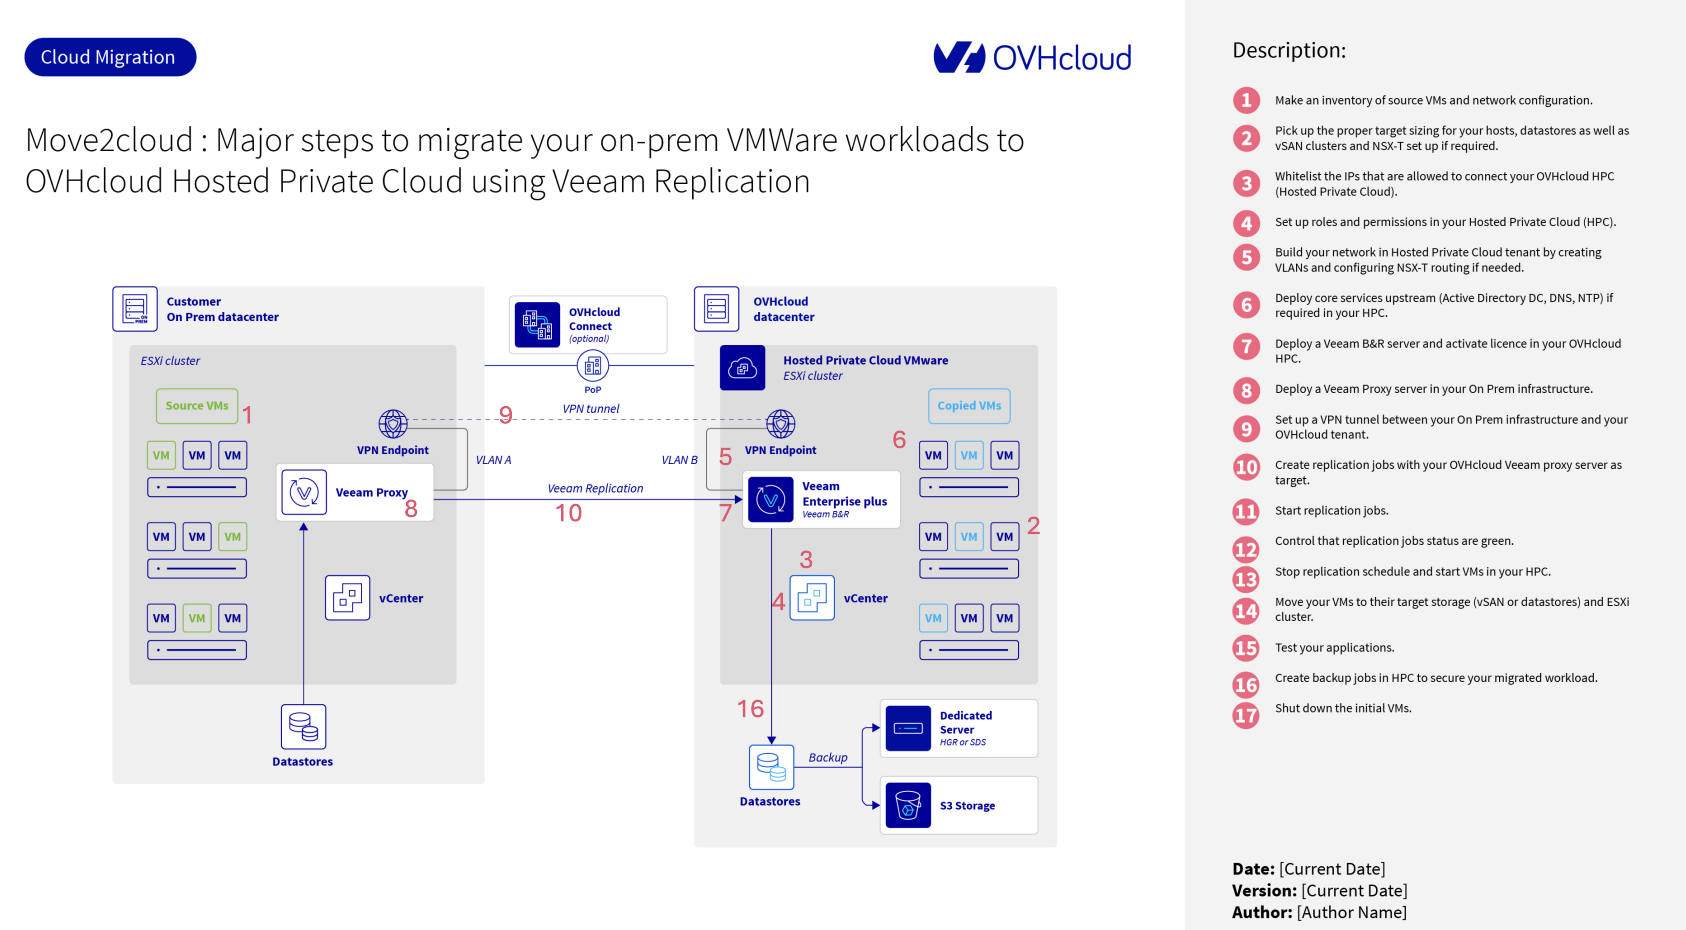
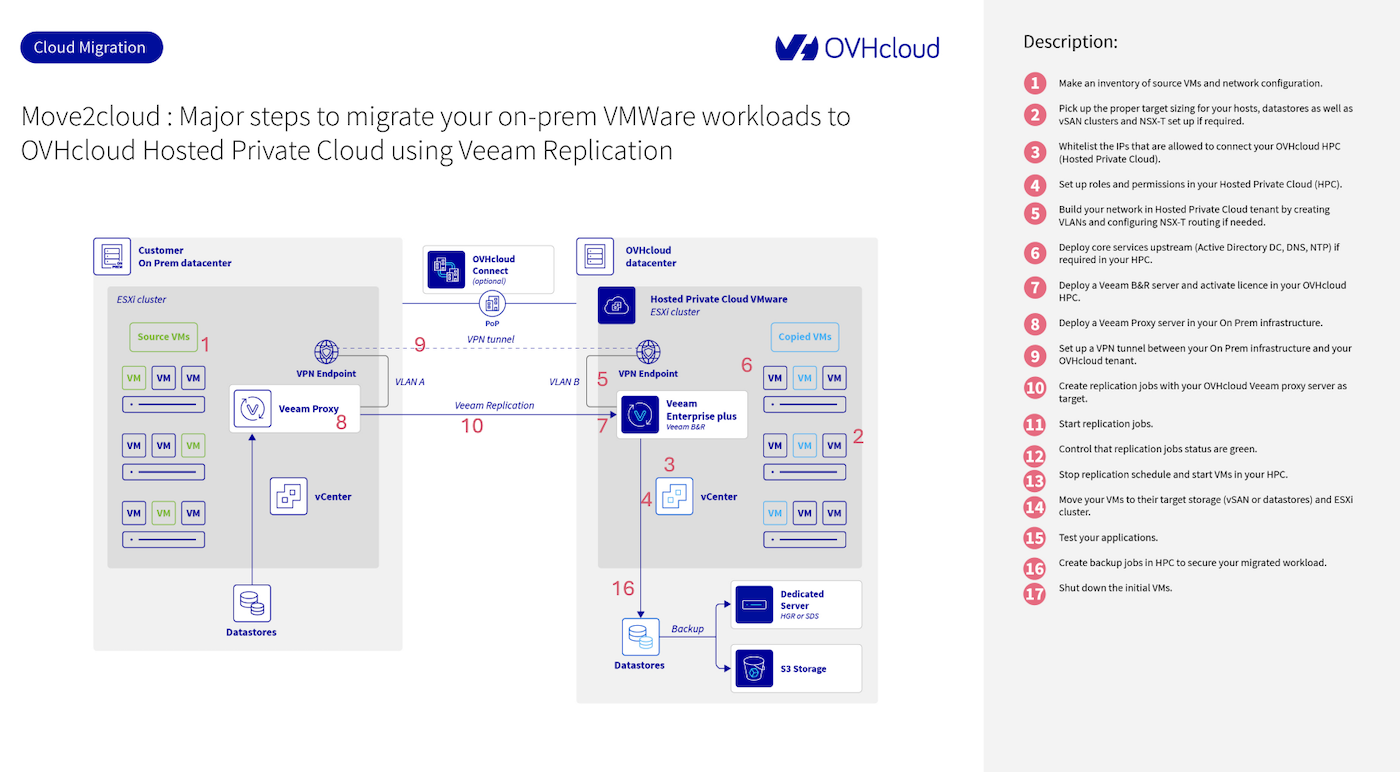
Proofreading

diff --git a/pages/hosted_private_cloud/hosted_private_cloud_powered_by_vmware/vmware_migration_veeam/guide.en-gb.md b/pages/hosted_private_cloud/hosted_private_cloud_powered_by_vmware/vmware_migration_veeam/guide.en-gb.md
@@ -1,7 +1,7 @@
 ---
-title: "Move2Cloud: Migrating VMware Workloads to OVHcloud HPC with Veeam Replication"
+title: "Move2Cloud - Migrating VMware Workloads to OVHcloud Hosted Private Cloud with Veeam Replication"
 excerpt: "Learn how to migrate your on-prem VMware workloads to an OVHcloud Hosted Private Cloud environment using Veeam Replication."
-updated: 2025-02-13
+updated: 2025-02-18
 ---
 
 ## Objective
@@ -10,7 +10,7 @@ This guide explains how to migrate your on-premises VMware workloads to an **OVH
 
 ## Requirements
 
-Before getting started, you’ll need:
+Before getting started, you will need:
 
 - A complete list of VMs with FQDNs, IP addresses, and dependencies.
 - Correctly sized target resources (e.g., hosts, datastores, vSAN clusters).
@@ -29,203 +29,208 @@ At the end of Step 1, you should have a clear understanding of which workloads y
 
 Start by listing all the VMs you plan to migrate.
 
- For each VM, include the following information:  
-- **FQDN (Fully Qualified Domain Name)** and **IP address**.  
-- **Operating system version** (ensure it’s up-to-date and supported).  
-- **Dependencies** (e.g., applications relying on specific servers).  
+For each VM, include the following information:
+
+- **FQDN (Fully Qualified Domain Name)** and **IP address**.
+- **Operating System version** (ensure it’s up-to-date and supported).
+- **Dependencies** (e.g. applications relying on specific servers).
 
 #### Step 1.2: Group VMs into migration batches  
 
 Organize your VMs into logical groups based on their application dependencies. 
 
 For instance:  
-- A **web server**, an **application server**, and a **database server** that work together should be grouped in the same batch.  
 
-Migrating these batches ensures that applications remain functional during the transition.  
+- A **web server**, an **application server**, and a **database server** that work together should be grouped in the same batch.
 
-#### Step 1.3: Document network and subnet details  
+Migrating these batches ensures that applications remain functional during the transition.
 
-Record the current network configuration of your on-premises environment, including:  
+#### Step 1.3: Document network and subnet details
 
-- **Subnets** and **VLAN IDs**.  
-- The number of VLANs needed for the target Hosted Private Cloud.  
+Record the current network configuration of your on-premises environment, including:
 
-With OVHcloud vRack, you can create up to 4,000 VLANs, which allows you to replicate your current IP address plan without disruptions.  
+- **Subnets** and **VLAN IDs**.
+- The number of VLANs needed for the target Hosted Private Cloud.
+
+With [OVHcloud vRack](/links/network/vrack), you can create up to 4,000 VLANs, which allows you to replicate your current IP address plan without disruptions.
 
 ### Step 2: Plan target resources  
 
 At the end of this step, you will have a clear understanding of the resources required in your **Hosted Private Cloud (HPC)** environment to match your workloads.
 
-#### Step 2.1: Calculate compute requirements  
+#### Step 2.1: Calculate compute requirements
 
-Evaluate your needs for CPU and memory by calculating the total number of cores and amount of RAM required for your VMs. 
+Evaluate your needs for CPU and memory by calculating the total number of cores and amount of RAM required for your VMs.
 
-Use your current consolidation ratio (e.g., pCPU/vCPU) as a reference to determine the number and type of ESXi hosts needed.
+Use your current consolidation ratio (e.g. pCPU/vCPU) as a reference to determine the number and type of ESXi hosts needed.
 
 #### Step 2.2: Define storage needs  
 
 Decide which workloads require **NFS datastores** or **vSAN storage** based on their IOPS requirements. For applications with high performance demands, vSAN is typically the better option.
 
-#### Step 2.3: Plan the network  
+#### Step 2.3: Plan the network
 
-If using NSX-T, define your network segmentation strategy. Determine how you’ll apply VLAN-based or overlay segments and evaluate north/south traffic. 
+If using NSX-T, define your network segmentation strategy. Determine how you will apply VLAN-based or overlay segments and evaluate north/south traffic.
 
-Decide whether to retain your current firewall solution or deploy virtual firewalls (e.g., FortiVM, Stormshield, or Palo Alto VM-Series). 
+Decide whether to retain your current firewall solution or deploy virtual firewalls (e.g. FortiVM, Stormshield, or Palo Alto VM-Series).
 
-For internet-exposed services, allocate additional public IPs or use the [Bring Your Own IP (BYOIP)](/links/network/byoip) feature to retain your existing IP addresses.  
+For internet-exposed services, allocate additional public IPs or use the [Bring Your Own IP (BYOIP)](/links/network/byoip) feature to retain your existing IP addresses.
 
-### Step 3: Authorize IP access to vCenter  
+### Step 3: Authorize IP access to vCenter
 
 To enable remote access to the vCenter in your HPC, you must whitelist the IP addresses that need access.
 
-1. Log in to the [OVHcloud Control Panel](/links/manager).  
-2. Navigate to the `Hosted Private Cloud`{.action} section and open the Secure SSL Gateway.  
-3. Add the IP addresses that should have access to vCenter.  
+1. Log in to the [OVHcloud Control Panel](/links/manager).
+2. Navigate to the `Hosted Private Cloud`{.action} section and open the Secure SSL Gateway.
+3. Add the IP addresses that should have access to vCenter.
 
-You can find detailed instructions in the [IP whitelisting guide](https://help.ovhcloud.com/csm/en-gb-vmware-authorise-ip-addresses-vcenter?id=kb_article_view&sysparm_article=KB0045321).
+You can find detailed instructions in our [IP whitelisting guide](/pages/hosted_private_cloud/hosted_private_cloud_powered_by_vmware/autoriser_des_ip_a_se_connecter_au_vcenter).
 
-### Step 4: Configure roles and permissions  
+### Step 4: Configure roles and permissions
 
-#### Step 4.1: Use OVHcloud IAM  
+#### Step 4.1: Use OVHcloud IAM
 
-Set up roles and permissions in your `Hosted Private Cloud`{.action} using `OVHcloud IAM`{.action}. 
+Set up roles and permissions in your `Hosted Private Cloud`{.action} using `OVHcloud IAM`.
 
-For instructions, refer to the [IAM setup guide](https://help.ovhcloud.com/csm/en-gb-vmware-iam-presentation?id=kb_article_view&sysparm_article=KB0063154).
+For instructions, refer to the [IAM setup guide](/pages/hosted_private_cloud/hosted_private_cloud_powered_by_vmware/vmware_iam_getting_started).
 
-#### Step 4.2: Integrate with existing IAM solutions  
+#### Step 4.2: Integrate with existing IAM solutions
 
-If you already use an identity management system such as Active Directory or Okta, you can deploy these services within your HPC.  
+If you already use an identity management system such as Active Directory or Okta, you can deploy these services within your HPC.
 
-#### Step 4.3: Enable single sign-on  
+#### Step 4.3: Enable single sign-on
 
-To simplify access, you can configure Single Sign-On (SSO) by linking `OVHcloud IAM`{.action} with your ADFS (Active Directory Federation Services). 
+To simplify access, you can configure Single Sign-On (SSO) by linking `OVHcloud IAM` with your ADFS (Active Directory Federation Services).
 
-Follow the steps in [this guide](https://help.ovhcloud.com/csm/en-gb-connect-saml-sso-adfs?id=kb_article_view&sysparm_article=KB0043008).
+Follow the steps in [this guide](/pages/account_and_service_management/account_information/ovhcloud-account-connect-saml-adfs).
 
-### Step 5: Build your target network  
+### Step 5: Build your target network
 
-#### Step 5.1: Define the flow matrix  
+#### Step 5.1: Define the flow matrix
 
-Plan your network traffic by creating a flow matrix. Identify which VLANs are routed and which VMs should exchange traffic, specifying allowed ports and protocols.  
+Plan your network traffic by creating a flow matrix. Identify which VLANs are routed and which VMs should exchange traffic, specifying allowed ports and protocols.
 
-#### Step 5.2: Configure NSX-T  
+#### Step 5.2: Configure NSX-T
 
 Use NSX-T to configure Tier-1 and Tier-0 gateways, distribute traffic, and segregate workloads. VMware tenants come with preconfigured **distributed vSwitches (dVS)** and VLANs, which you can adjust to match your environment.
 
-Refer to the [NSX first steps guide](https://help.ovhcloud.com/csm/en-gb-vmware-nsx-first-steps?id=kb_article_view&sysparm_article=KB0056831) for more details.  
+Refer to the [NSX first steps guide](/pages/hosted_private_cloud/hosted_private_cloud_powered_by_vmware/nsx-01-first-steps) for more details.  
 
-### Step 6: Deploy core services  
+### Step 6: Deploy core services
 
-Your Hosted Private Cloud requires basic infrastructure services for your migrated workloads:  
+Your Hosted Private Cloud requires basic infrastructure services for your migrated workloads:
 
-- **NTP:** Configure `ntp.ovh.net`{.action} for time synchronization.  
-- **DNS:** Deploy DNS services, such as an Active Directory Domain Controller, to resolve domain names.  
-- **Authentication:** Set up authentication services locally in HPC to minimize cross-environment traffic.  
+- **NTP:** Configure `ntp.ovh.net` for time synchronization.
+- **DNS:** Deploy DNS services, such as an Active Directory Domain Controller, to resolve domain names.
+- **Authentication:** Set up authentication services locally in HPC to minimize cross-environment traffic.
 
-### Step 7: Install Veeam B&R server  
+### Step 7: Install Veeam B&R server
 
-Install the **Veeam Backup & Replication (B&R)** server in your OVHcloud HPC environment. This server will handle the replication process. 
+Install the **Veeam Backup & Replication (B&R)** server in your OVHcloud HPC environment. This server will handle the replication process.
 
-Activate its license using the [setup guide](https://help.ovhcloud.com/csm/en-gb-public-cloud-storage-veeam-backup-replication?id=kb_article_view&sysparm_article=KB0046503).  
+Activate its license using the [setup guide](/pages/storage_and_backup/backup_and_disaster_recovery_solutions/veeam/veeam_veeam_backup_replication).  
 
-### Step 8: Set up secure connectivity  
+### Step 8: Set up secure connectivity
 
-#### Step 8.1: Configure a VPN tunnel  
+#### Step 8.1: Configure a VPN tunnel
 
-Set up an IPsec tunnel between your on-prem infrastructure and OVHcloud using NSX, Stormshield, or OpnSense:  
-- [NSX VPN setup](https://help.ovhcloud.com/csm/en-gb-vmware-nsx-configure-ipsec?id=kb_article_view&sysparm_article=KB0058696)
+Set up an IPsec tunnel between your on-prem infrastructure and OVHcloud using NSX, Stormshield, or OpnSense:
+
+- [NSX VPN setup](/pages/hosted_private_cloud/hosted_private_cloud_powered_by_vmware/nsx-12-configure-ipsec)
 - [Stormshield VPN setup](https://documentation.stormshield.eu/SNS/v4/en/Content/User_Configuration_Manual_SNS_v4/IPSec_VPN/IPSEC_VPN.htm)
 - [OpnSense VPN setup](https://docs.opnsense.org/manual/how-tos/ipsec-s2s.html)
 
-#### Step 8.2: Use OVHcloud Connect (Optional)  
+#### Step 8.2: Use OVHcloud Connect (Optional)
 
-For low latency and high bandwidth, you can subscribe to **OVHcloud Connect**, which provides an MPLS-like link. 
+For low latency and high bandwidth, you can subscribe to **OVHcloud Connect**, which provides an MPLS-like link.
 
-Learn more about [OVHcloud Connect](https://www.ovhcloud.com/fr/network/ovhcloud-connect/). 
+Learn more about [OVHcloud Connect](/links/network/ovhcloud-connect).
 
-### Step 9: Deploy the Veeam proxy server  
+### Step 9: Deploy the Veeam proxy server
 
-A Veeam proxy server must be deployed in your on-prem infrastructure to manage data transfer.  
+A Veeam proxy server must be deployed in your on-prem infrastructure to manage data transfer.
 
-1. Add the proxy server in the Veeam Console under **Backup Infrastructure**.  
-2. Configure transport modes and resource allocation.  
+1. Add the proxy server in the Veeam Console under **Backup Infrastructure**.
+2. Configure transport modes and resource allocation.
 
-Follow the [proxy setup guide](https://helpcenter.veeam.com/docs/backup/vsphere/add_vmware_proxy.html?ver=120) for a detailed walkthrough.  
+Follow the [proxy setup guide](https://helpcenter.veeam.com/docs/backup/vsphere/add_vmware_proxy.html?ver=120) for a detailed walkthrough.
 
-### Step 10: Create replication jobs  
+### Step 10: Create replication jobs
 
-In **Veeam Backup & Replication**, create a replication job to migrate your VMs.  
+In **Veeam Backup & Replication**, create a replication job to migrate your VMs.
 
-1. Open the `Replication Jobs`{.action} section in the Veeam Console.  
-2. Add the `source VMs`{.action} and configure the target HPC environment.  
-3. Set additional options like compression or application-aware processing.  
+1. Open the `Replication Jobs`{.action} section in the Veeam Console.
+2. Add the `source VMs`{.action} and configure the target HPC environment.
+3. Set additional options like compression or application-aware processing.
 
 Detailed steps are available in the [replication job setup guide](https://helpcenter.veeam.com/docs/backup/vsphere/replica_job.html?ver=120).  
 
-### Step 11: Start and test replication  
+### Step 11: Start and test replication
 
 Run your replication jobs and test their functionality using Veeam’s `Failover Now`{.action} feature. Revert to the original state using `Undo Failover`{.action}.
 
 Refer to the [Failover process](https://helpcenter.veeam.com/docs/backup/vsphere/failover.html?ver=120) and [Undo Failover process](https://helpcenter.veeam.com/docs/backup/vsphere/undo_failover.html?ver=120).
 
-### Step 12: Finalize migration  
+### Step 12: Finalize migration
 
-Perform a `Planned Failover`{.action} on migration day to synchronize final changes, power off the source VMs, and activate the replicas in HPC. 
+Perform a `Planned Failover`{.action} on migration day to synchronize final changes, power off the source VMs, and activate the replicas in HPC.
 
 See the [Planned Failover guide](https://helpcenter.veeam.com/docs/backup/vsphere/planned_failover.html?ver=120).  
 
-### Step 13: Validate applications  
+### Step 13: Validate applications
 
-Ensure all VMs boot successfully and test critical services like AD, DNS, and databases to confirm full functionality.  
+Ensure all VMs boot successfully and test critical services like AD, DNS, and databases to confirm full functionality.
 
-### Step 14: Confirm permanent failover  
+### Step 14: Confirm permanent failover
 
 Use the `Permanent Failover`{.action} option in Veeam to finalize your migration. This will make the replicas in HPC the primary production VMs. 
 
-Refer to the [Permanent Failover guide](https://helpcenter.veeam.com/docs/backup/vsphere/permanent_failover.html?ver=120).  
+Refer to the [Permanent Failover guide](https://helpcenter.veeam.com/docs/backup/vsphere/permanent_failover.html?ver=120).
 
-### Step 15: Optimize and secure  
+### Step 15: Optimize and secure
 
-Move VMs to target storage using [Storage vMotion](https://help.ovhcloud.com/csm/fr-vmware-storage-vmotion?id=kb_article_view&sysparm_article=KB0046287) and configure backup jobs in OVHcloud S3 storage to protect your workloads.  
+Move VMs to target storage using [Storage vMotion](/pages/hosted_private_cloud/hosted_private_cloud_powered_by_vmware/vmware_storage_vmotion) and configure backup jobs in [OVHcloud Object Storage](/links/public-cloud/object-storage) to protect your workloads.
 
-### Step 16: Move VMs to target storage  
+### Step 16: Move VMs to target storage
 
-Once your VMs have been migrated to the OVHcloud HPC, you may need to optimize their placement within the environment based on performance requirements. 
+Once your VMs have been migrated to the OVHcloud HPC, you may need to optimize their location within the environment based on performance requirements.
 
-This involves moving VMs and their virtual disk files (VMDKs) to the appropriate storage.  
+This involves moving VMs and their virtual disk files (VMDKs) to the appropriate storage.
 
 1. **Assess Performance Requirements:**  
-   - Identify which VMs require high-performance storage (e.g., vSAN for intensive workloads).  
-   - Use NFS datastores for less demanding applications.  
+    - Identify which VMs require high-performance storage (e.g. vSAN for intensive workloads).
+    - Use NFS datastores for less demanding applications.
 
 2. **Use Storage vMotion:**  
-   - Open the `vSphere Client`{.action} and navigate to the VM you wish to move.  
-   - Right-click the VM and select `Migrate`{.action} .  
-   - Choose the `Change storage only`{.action}  option and select the target datastore (vSAN or NFS).  
-   - Review and confirm the migration settings, then start the migration process.  
+    - Open the `vSphere Client`{.action} and navigate to the VM you wish to move.
+    - Right-click the VM and select `Migrate`{.action}.
+    - Choose the `Change storage only`{.action}  option and select the target datastore (vSAN or NFS).
+    - Review and confirm the migration settings, then start the migration process.
 
-This step ensures your VMs are stored on the appropriate infrastructure to meet their performance needs. 
+This step ensures your VMs are stored on the appropriate infrastructure to meet their performance needs.
 
-For more information, refer to the [Storage vMotion guide](https://help.ovhcloud.com/csm/fr-vmware-storage-vmotion?id=kb_article_view&sysparm_article=KB0046287).  
+For more information, refer to the [Storage vMotion guide](/pages/hosted_private_cloud/hosted_private_cloud_powered_by_vmware/vmware_storage_vmotion).
 
-### Step 17: Create backup jobs to secure your workloads  
+### Step 17: Create backup jobs to secure your workloads
 
-Now that your VMs are running in the OVHcloud Hosted Private Cloud, it’s essential to establish a backup strategy to protect your data. 
+Now that your VMs are running in the OVHcloud Hosted Private Cloud, it’s essential to establish a backup strategy to protect your data.
 
-**Veeam Backup & Replication** provides flexible options for securing your workloads.  
+**Veeam Backup & Replication** provides flexible options for securing your workloads.
 
-1. **Define Backup Storage:**  
-   - Use OVHcloud **S3-compatible storage** as a backup repository for scalability and cost efficiency.  
+1. **Define Backup Storage:**
+   - Use OVHcloud **[S3*-compatible Object Storage](/links/public-cloud/object-storage)** as a backup repository for scalability and cost efficiency.
 
-2. **Create a Backup Job in Veeam:**  
-   - Open the **Veeam Console** and navigate to the `Home`{.action} tab.  
-   - Click `Backup Job`{.action} > `Virtual Machine`{.action}and follow the wizard:  
-     - Select the VMs to back up.  
-     - Choose the backup repository (e.g., OVHcloud S3 storage).  
-     - Configure retention policies, compression, and encryption settings.  
+2. **Create a Backup Job in Veeam:**
+    - Open the **Veeam Console** and navigate to the `Home`{.action} tab.
+    - Click `Backup Job`{.action} > `Virtual Machine`{.action}and follow the wizard:
+    - Select the VMs to back up.
+    - Choose the backup repository (e.g. OVHcloud Object Storage).
+    - Configure retention policies, compression, and encryption settings.
 
-3. **Run and Test the Backup Job:**  
-   - Start the backup job and monitor its progress.  
-   - Perform a test restore to ensure the backups are reliable and can be used in a recovery scenario.  
+3. **Run and Test the Backup Job:**
+    - Start the backup job and monitor its progress.
+    - Perform a test restore to ensure the backups are reliable and can be used in a recovery scenario.
 
-Setting up regular backups guarantees that your workloads are protected against data loss or corruption. For detailed instructions, refer to the [Veeam S3 backup guide](https://help.ovhcloud.com/csm/fr-public-cloud-storage-s3-veeam?id=kb_article_view&sysparm_article=KB0047499){.action}.  
+Setting up regular backups guarantees that your workloads are protected against data loss or corruption. For detailed instructions, refer to the [Veeam S3 backup guide](/pages/storage_and_backup/object_storage/s3_veeam).
+
+*: S3 is a trademark of Amazon Technologies, Inc. OVHcloud’s service is not sponsored by, endorsed by, or otherwise affiliated with Amazon Technologies, Inc.
